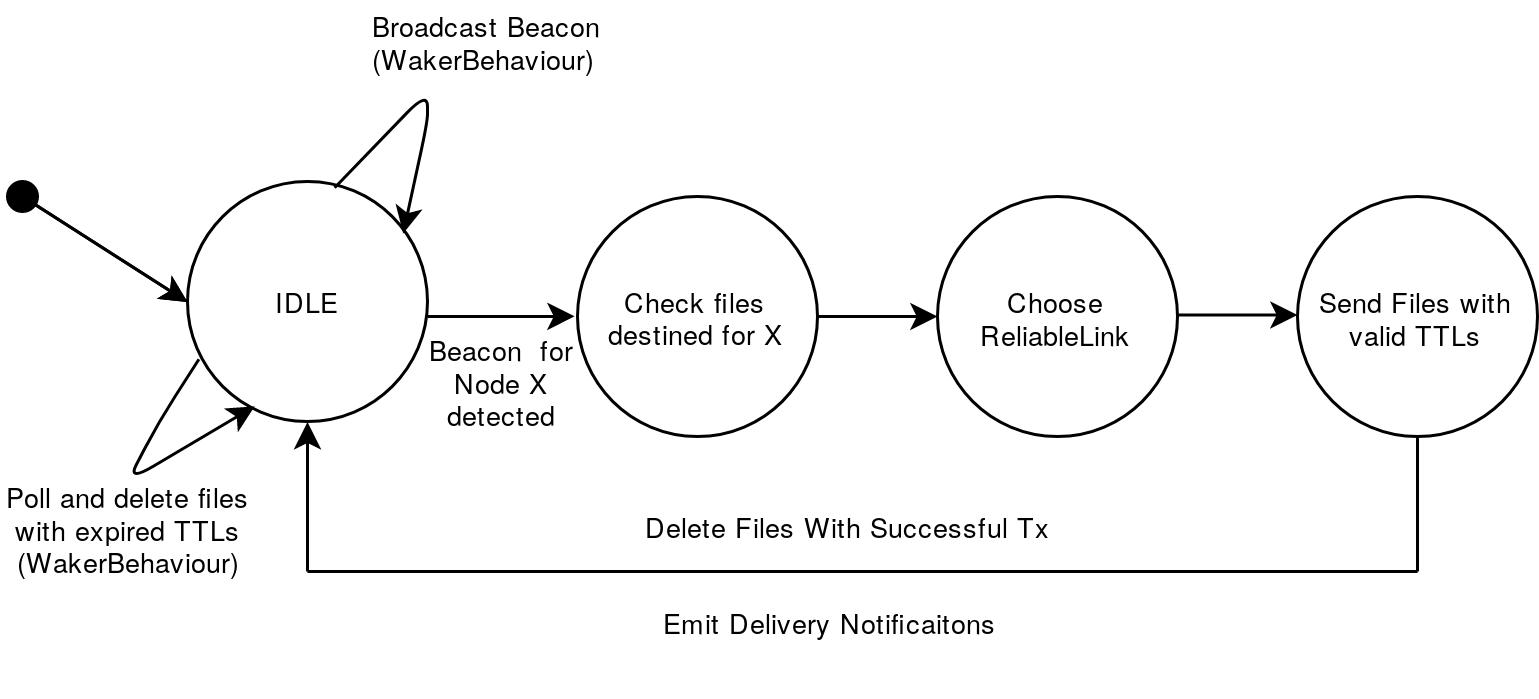
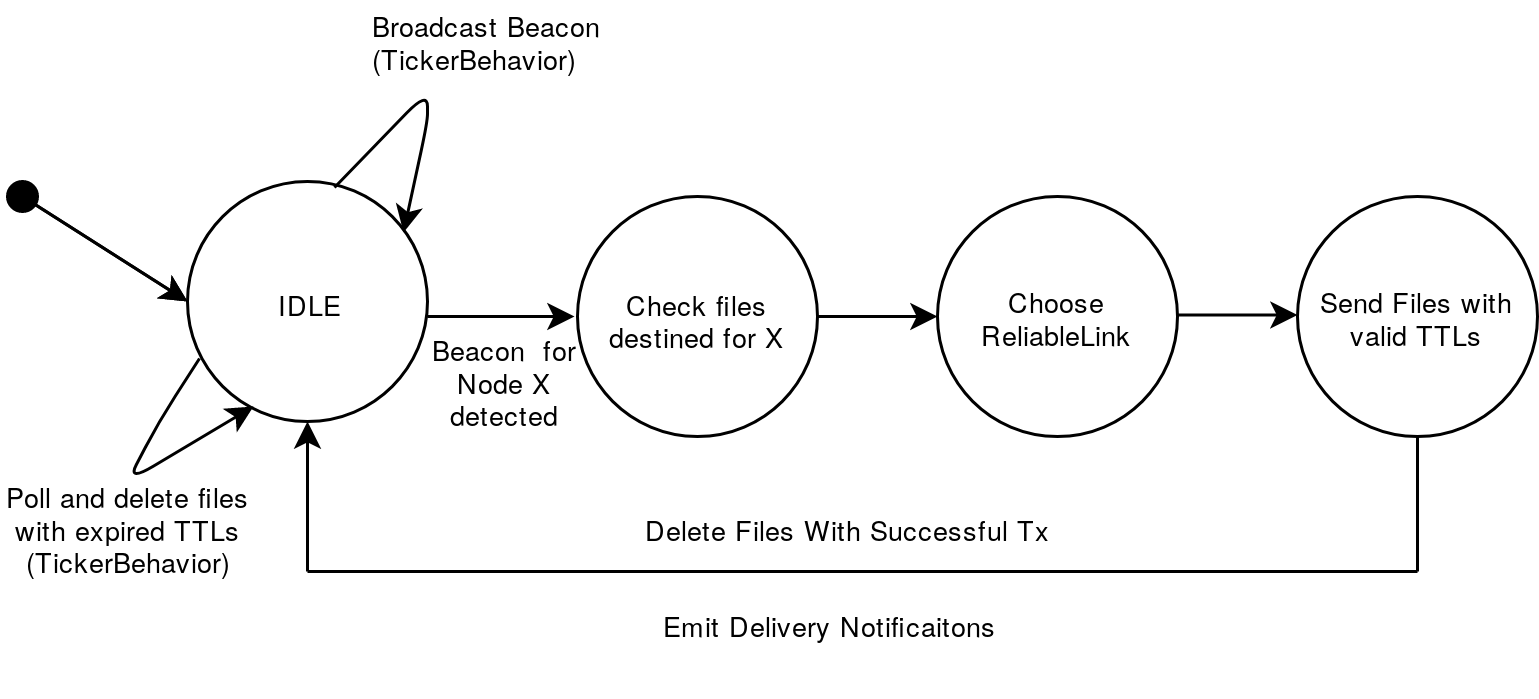
work

diff --git a/README.md b/README.md
@@ -2,7 +2,7 @@
 ## Design Document
 *Arnav Dhamija, 2019*
 
-**Everything here is Work In Progress!**
+**Everything in this DD is Work In Progress!**
 
 ### Overview
 
@@ -20,7 +20,7 @@ In this project, we are attempting to use an adaptation of DTN protocols to impr
 
 We are relaxing some of the requirements for DTNs for the first iteration of this project. Some of the current goals for the initial design include the implementation of:
 
-* Beacons to allow nodes to advertise their existence and find other nodes.
+* Beacons, to allow nodes to advertise their existence and find other nodes.
 * A storage mechanism to allow for SCAF. This should also delete files which have been successfully acknowledged or those which have expired TTLs.
 * A PDU (which will be wrapped in the DatagramReq) for storing DTN metadata such as TTL.
 * A DTNAgent which can handle Datagram requests from other agents and send essential notifications about the relay of PDUs. The DTNAgent should be able to talk over multiple ReliableLinks and should have a mechanism of choosing the best Link for a certain application.
@@ -36,3 +36,21 @@ Goals which will not be covered by the first iteration but which may be covered 
 ### Flowchart
 
 ![](UNETSTACK-DTN.png)
+
+### Classes
+
+#### Beacon
+
+The Beacon is a part of the DTNAgent. Its task is to periodically send a message to advertise the existence of a node to all neighbors by sending a DatagramReq to the Broadcast address with the Recipient set to the DTNAgent.
+
+```
+class DTNBeacon {
+    int duration;
+    TickerBehaviour tb;
+    DTNBeacon(DTNAgent agent, int duration) {
+        tb = add new TickerBehaviour(agent, duration, {
+            send new DatagramReq(recipient: agent.getAgentID, to: Address.BROADCAST, ));
+        }))
+    }
+};
+```
